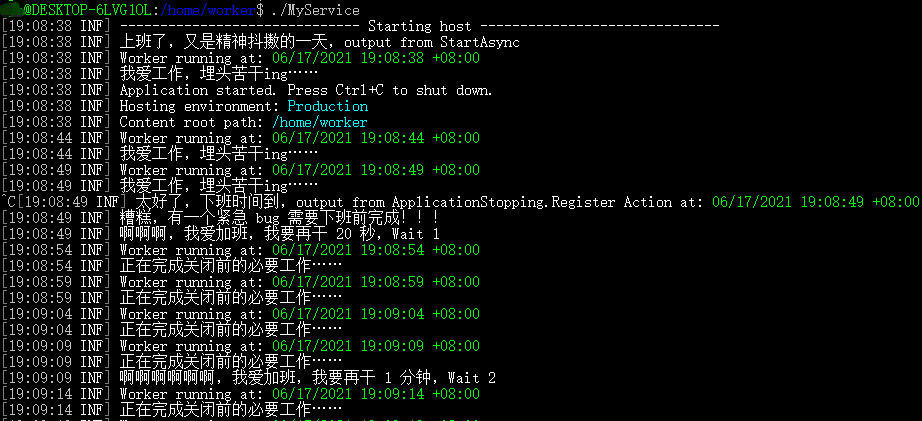
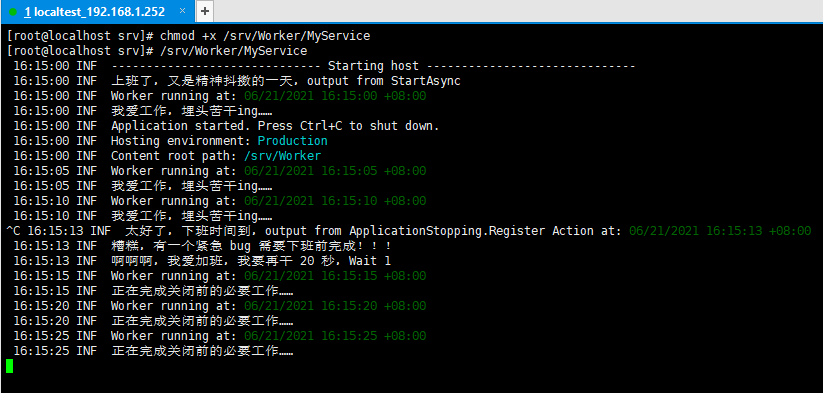
...

Changed region(s): [[0.0, 0.0, 1.0, 1.0]]

diff --git a/_drafts/2021-06-25-worker-service-as-systemd-services-on-linux.md b/_drafts/2021-06-25-worker-service-as-systemd-services-on-linux.md
@@ -70,6 +70,7 @@ dotnet publish -c Release -r linux-x64 -o c:\test\workerpub\linux
 
 ## 作为 Linux 控制台程序运行
 
+<!-- 
 - [如何在 Windows 10 上安装 WSL2](https://ittranslator.cn/os/2020/12/14/how-to-install-wsl2-on-windows-10.html)
 - [在 WSL Ubuntu 上使用 .NET 进行跨平台开发新手入门](https://ittranslator.cn/os/2020/12/28/creating-cross-platform-applications-with-net-on-ubuntu-on-wsl.html)
 - [Windows Terminal 新手入门](https://ittranslator.cn/os/2020/12/31/getting-started-with-windows-terminal.html)
@@ -77,9 +78,36 @@ dotnet publish -c Release -r linux-x64 -o c:\test\workerpub\linux
 启动 WSL 2 上的 Ubuntu 系统，新建 */srv/Worker* 目录
 
 ```bash
-sudo mkdir /srv/Worker
+mkdir /srv/Worker
+``` -->
+
+将文件夹 *C:\test\workerpub\linux* 下的文件压缩为 *linux.zip*。
+
+打开 Xshell 工具，连接到一台 CentOS 测试机，新建 */srv/Worker* 目录：
+
+```bash
+mkdir /srv/Worker
 ```
 
+使用 `rz` 命令将 *linux.zip* 复制到测试机，
+
+![copy files to linux](https://ittranslator.cn/assets/images/202106/xshell-rz)
+
+然后解压 *linux.zip* 到 */srv/Worker* 目录：
+
+```bash
+unzip linux.zip -d /srv/Worker
+```
+
+为我们的程序分配可执行权限，并运行：
+
+```bash
+chmod +x /srv/Worker/MyService
+
+/srv/Worker/MyService
+```
+
+<!-- 
 复制应用程序文件到 Ubuntu 系统：
 
 ```bash
@@ -94,11 +122,11 @@ cp -r /mnt/c/test/workerpub/linux/. /srv/Worker
 cd /srv/Worker
 
 ./MyService
-```
+``` -->
 
 ![run as console on linux](https://ittranslator.cn/assets/images/202106/linux-run-as-console.png)
 
-按 `Ctrl+C` 关闭应用，等待关闭前必须完成的任务正常结束，应用退出。输入 `ls` 命令回车，您会在当前目录下看到多了一个 *Logs* 目录，日志文件输出正常。
+按 `Ctrl+C` 关闭应用，等待关闭前必须完成的任务正常结束，应用退出。输入 `ls /srv/Worker` 命令回车，您会在该目录下看到多了一个 *Logs* 目录，日志文件输出正常。
 
 ## 作为 Systemd Service 运行
 

diff --git a/os/_posts/2020-12-31-getting-started-with-windows-terminal.md b/os/_posts/2020-12-31-getting-started-with-windows-terminal.md
@@ -121,6 +121,12 @@ Windows Terminal 默认使用 Cascadia Mono 字体。字体是*配置文件（pr
 
 <br/>
 
+相关阅读：
+
+- [如何在 Windows 10 上安装 WSL2](https://ittranslator.cn/os/2020/12/14/how-to-install-wsl2-on-windows-10.html)
+- [在 WSL Ubuntu 上使用 .NET 进行跨平台开发新手入门](https://ittranslator.cn/os/2020/12/28/creating-cross-platform-applications-with-net-on-ubuntu-on-wsl.html)
+- [Windows Terminal 新手入门](https://ittranslator.cn/os/2020/12/31/getting-started-with-windows-terminal.html)
+
 > 作者 ： Kayla Cinnamon  
 > 译者 ： 技术译民  
 > 出品 ： [技术译站](https://ittranslator.cn/)  

diff --git a/os/_posts/2020-12-28-creating-cross-platform-applications-with-net-on-ubuntu-on-wsl.md b/os/_posts/2020-12-28-creating-cross-platform-applications-with-net-on-ubuntu-on-wsl.md
@@ -340,6 +340,12 @@ cp -r ~/dotnetproject/bin/Debug/netcoreapp3.1/win10-x64/publish /mnt/c/Users/Hay
 
 <br/>
 
+相关阅读：
+
+- [如何在 Windows 10 上安装 WSL2](https://ittranslator.cn/os/2020/12/14/how-to-install-wsl2-on-windows-10.html)
+- [在 WSL Ubuntu 上使用 .NET 进行跨平台开发新手入门](https://ittranslator.cn/os/2020/12/28/creating-cross-platform-applications-with-net-on-ubuntu-on-wsl.html)
+- [Windows Terminal 新手入门](https://ittranslator.cn/os/2020/12/31/getting-started-with-windows-terminal.html)
+
 > 作者 ： haydenb  
 > 译者 ： 技术译民  
 > 出品 ： [技术译站](https://ittranslator.cn/)  

diff --git a/os/_posts/2020-12-14-how-to-install-wsl2-on-windows-10.md b/os/_posts/2020-12-14-how-to-install-wsl2-on-windows-10.md
@@ -158,6 +158,12 @@ wsl --set-version Ubuntu-20.04 2
 
 <br/>
 
+相关阅读：
+
+- [如何在 Windows 10 上安装 WSL2](https://ittranslator.cn/os/2020/12/14/how-to-install-wsl2-on-windows-10.html)
+- [在 WSL Ubuntu 上使用 .NET 进行跨平台开发新手入门](https://ittranslator.cn/os/2020/12/28/creating-cross-platform-applications-with-net-on-ubuntu-on-wsl.html)
+- [Windows Terminal 新手入门](https://ittranslator.cn/os/2020/12/31/getting-started-with-windows-terminal.html)
+
 > 作者 ： Joey Sneddon  
 > 译者 ： 技术译民  
 > 出品 ： [技术译站](https://ittranslator.cn/)  
